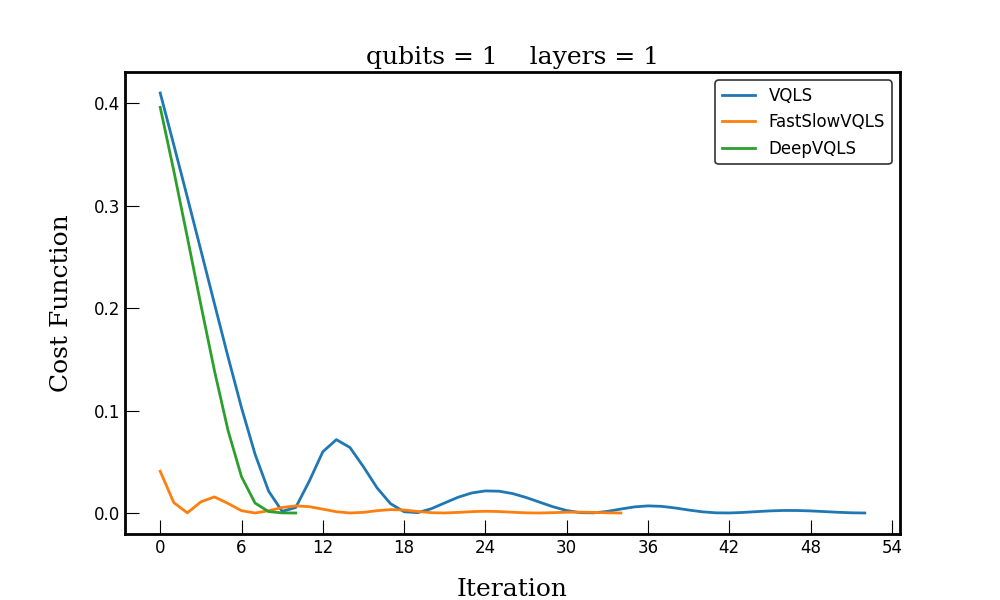
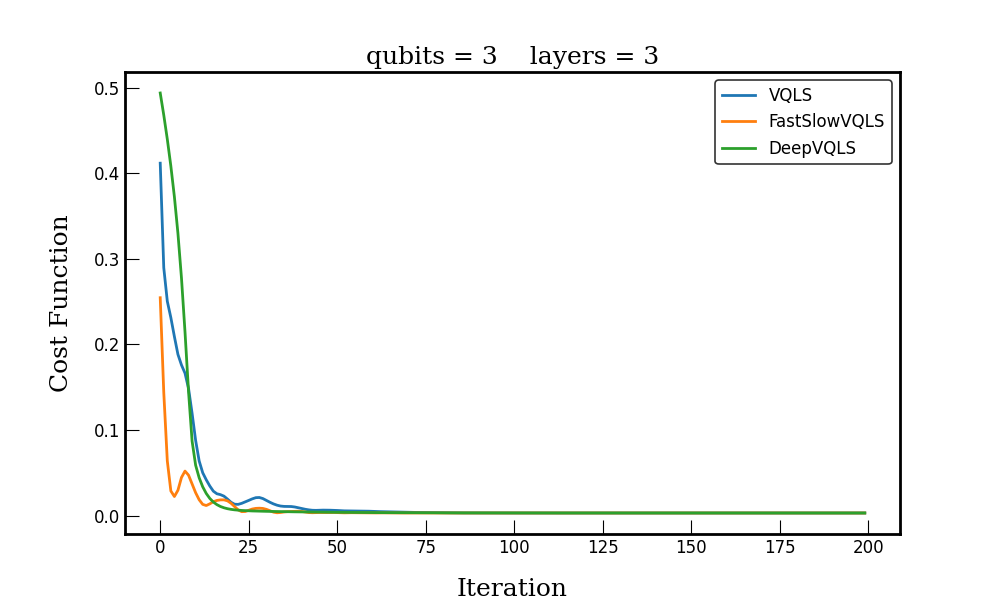
added adam, adagrad, rmsprop torch optimizers

diff --git a/src/optimizers/optim_torch.py b/src/optimizers/optim_torch.py
@@ -28,7 +28,8 @@ class OptimizerTorch(ABC):
             loss.backward()  # backpropagation
             opt.step()  # update weights
 
-            print("{:s}     Step {:3d}    obj = {:9.7f}    time = {:9.7f} sec".format(self.name, it, loss.item(), time() - ta))
+            print("{:s}     Step {:3d}    obj = {:9.7f}    time = {:9.7f} sec".format(self.name, it, loss.item(),
+                                                                                      time() - ta))
             cost_vals.append(loss.item())  # save cost function value
             if np.abs(loss.item()) < tol:  # breaking condition
                 _, w = model(x)
@@ -51,3 +52,48 @@ class SGDTorch(OptimizerTorch):
 
     def get_optimizer(self, model):
         return torch.optim.SGD(params=model.parameters(), lr=self.eta)
+
+
+class AdamTorch(OptimizerTorch):
+    def __init__(self, eta=0.1, betas=(0.9, 0.999), eps=1e-8, weight_decay=0):
+        super().__init__()
+        self.eta = eta
+        self.betas = betas
+        self.eps = eps
+        self.weight_decay = weight_decay
+        self.name = "Adam"
+
+    def get_optimizer(self, model):
+        return torch.optim.Adam(params=model.parameters(), lr=self.eta, betas=self.betas, eps=self.eps,
+                                weight_decay=self.weight_decay)
+
+
+class AdagradTorch(OptimizerTorch):
+    def __init__(self, eta=0.1, lr_decay=0, weight_decay=0, ini_acc_val=0, eps=1e-10):
+        super().__init__()
+        self.eta = eta
+        self.lr_decay = lr_decay
+        self.weight_decay = weight_decay
+        self.ini_acc_val = ini_acc_val
+        self.eps = eps
+        self.name = "Adagrad"
+
+    def get_optimizer(self, model):
+        return torch.optim.Adagrad(params=model.parameters(), lr=self.eta, lr_decay=self.lr_decay,
+                                   weight_decay=self.weight_decay, initial_accumulator_value=self.ini_acc_val,
+                                   eps=self.eps)
+
+
+class RMSPropTorch(OptimizerTorch):
+    def __init__(self, eta=0.1, alpha=0.99, eps=1e-8, weight_decay=0, momentum=0):
+        super().__init__()
+        self.eta = eta
+        self.alpha = alpha
+        self.eps = eps
+        self.weight_decay = weight_decay
+        self.momentum = momentum
+        self.name = "RMSProp"
+
+    def get_optimizer(self, model):
+        return torch.optim.RMSprop(params=model.parameters(), lr=self.eta, alpha=self.alpha, eps=self.eps,
+                                   weight_decay=self.weight_decay, momentum=self.momentum)

diff --git a/examples/example_deepvqls.py b/examples/example_deepvqls.py
@@ -1,0 +1,64 @@
+from src.utils.ansatz import HardwareEfficient
+from src.utils.embedding import MottonenStatePrep
+from src.optimizers.optim_torch import AdamTorch, AdagradTorch, RMSPropTorch, SGDTorch
+from src.utils.backend import DefaultQubitTorch
+from src.utils.utils import get_random_ls
+from src.solver.quantum.vqls.vqls_dnn import DeepVQLS
+from src.utils.plotting import plot_costs
+import numpy as np
+
+# reproducibility
+np.random.seed(42)
+
+# number of qubits & layers
+nqubits = 1
+nlayers = 1
+
+maxiter = 50
+
+# init
+solver1 = DeepVQLS()
+solver2 = DeepVQLS()
+solver3 = DeepVQLS()
+solver4 = DeepVQLS()
+
+# set linear system
+A0, b0 = get_random_ls(nqubits, easy_example=True)  # random spd
+solver1.set_lse(A=A0, b=b0)
+solver2.set_lse(A=A0, b=b0)
+solver3.set_lse(A=A0, b=b0)
+solver4.set_lse(A=A0, b=b0)
+
+
+# choose optimizer
+optims = [AdamTorch(),
+          AdagradTorch(),
+          RMSPropTorch(),
+          SGDTorch()]
+
+# choose ansatz, state preparation, backend
+ansatz_ = HardwareEfficient(nqubits=nqubits, nlayers=nlayers)
+prep_ = MottonenStatePrep(wires=range(nqubits))
+backend_ = DefaultQubitTorch(wires=nqubits + 1)
+
+cost_hists = {}
+wopts = {}
+
+solver1.setup(optimizer=AdamTorch(), ansatz=ansatz_, stateprep=prep_, backend=backend_, epochs=maxiter, tol=1e-5)
+solver2.setup(optimizer=AdagradTorch(), ansatz=ansatz_, stateprep=prep_, backend=backend_, epochs=maxiter, tol=1e-5)
+solver3.setup(optimizer=RMSPropTorch(), ansatz=ansatz_, stateprep=prep_, backend=backend_, epochs=maxiter, tol=1e-5)
+solver4.setup(optimizer=SGDTorch(), ansatz=ansatz_, stateprep=prep_, backend=backend_, epochs=maxiter, tol=1e-5)
+
+
+xopt1 = solver1.solve()
+xopt2 = solver2.solve()
+xopt3 = solver3.solve()
+xopt4 = solver4.solve()
+
+cost_hists["Adam"] = solver1.loss
+cost_hists["Adagrad"] = solver2.loss
+cost_hists["RMSProp"] = solver3.loss
+cost_hists["SGD"] = solver4.loss
+
+title = "DeepVQLS   {:s}    qubits = {:d}    layers = {:d}".format(ansatz_.__class__.__name__, nqubits, nlayers)
+plot_costs(data=cost_hists, save_png=True, title=title, fname="deep_vqls_optimizer_comparison")

diff --git a/examples/example_vqls_variations.py b/examples/example_vqls_variations.py
@@ -13,8 +13,8 @@ from src.optimizers.optim_torch import SGDTorch
 np.random.seed(42)
 
 # number of qubits & layers
-nqubits = 1
-nlayers = 1
+nqubits = 3
+nlayers = 3
 
 # maximum number of iterations
 maxiter = 200
